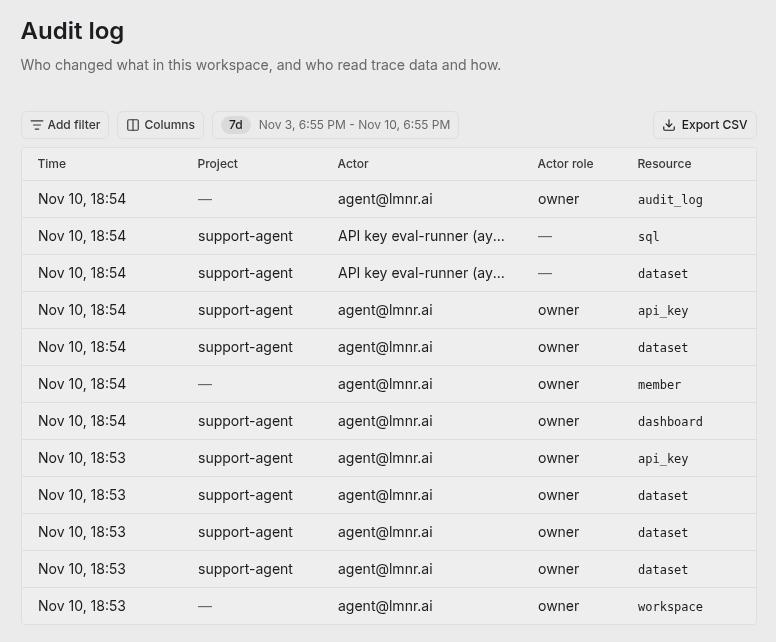
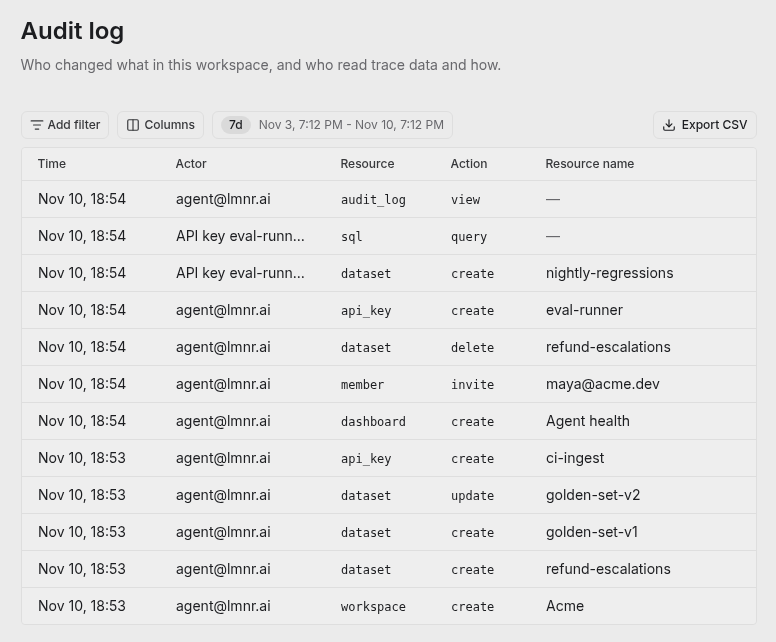
Show Action and Resource name in the audit log screenshot

diff --git a/CLAUDE.md b/CLAUDE.md
@@ -554,4 +554,4 @@ This is a Mintlify site. Pages are `.mdx`, navigation lives in `docs.json`, reus
 - Source of truth is lmnr `docs/internal/audit.md` plus `frontend/lib/audit/events.ts` (resources, actions, sources, outcomes) and `components/workspace/audit-log/`. Fully OSS. Access: owners and admins; on Cloud, Pro and Enterprise only (`AUDIT_LOG_EXCLUDED_TIERS` = free, hobby, starter); every self-hosted workspace.
 - Keep the page at the capability level: no queue, ClickHouse, or `handlerWithAudit` details, and no per-route lists. Don't mention data-plane or hybrid literal stripping (beta, and the docs dropped hybrid phrasing). There is no retention policy to document yet.
 - "What isn't recorded" must stay in sync with the internal note's `Not covered yet` list and the `/v1` `Skip` classes (ingestion, per-item calls, unattributable requests).
-- Screenshot repro without Docker (2026-11-10): `apt-get install postgresql`, `initdb` + run on 5433 with the `.env.local` password, ClickHouse single binary (`curl https://clickhouse.com/ | sh`) with a hand-written `users.xml` adding `ch_user`. The frontend's migrations then create both schemas. Generate events through the real routes with `fetch` from a signed-in page plus `curl` with a project API key. The local SQL route fails with `decompression error: incorrect magic number` against ClickHouse 26.x, so `sql.query` rows come out as `error`. The table is wider than the settings pane, so the shots show the first five columns plus a separate event-details dialog.
+- Screenshot repro without Docker (2026-11-10): `apt-get install postgresql`, `initdb` + run on 5433 with the `.env.local` password, ClickHouse single binary (`curl https://clickhouse.com/ | sh`) with a hand-written `users.xml` adding `ch_user`. The frontend's migrations then create both schemas. Generate events through the real routes with `fetch` from a signed-in page plus `curl` with a project API key. The local SQL route fails with `decompression error: incorrect magic number` against ClickHouse 26.x, so `sql.query` rows come out as `error`. The table is wider than the settings pane, so the table shot hides Project, Actor role, Resource ID, Source, and Outcome (Columns dialog) and narrows columns by dragging `th .cursor-col-resize`, so Action and Resource name fit. Column visibility and widths reset on reload, so set them and capture in one pass. The event-details dialog covers the remaining fields.
